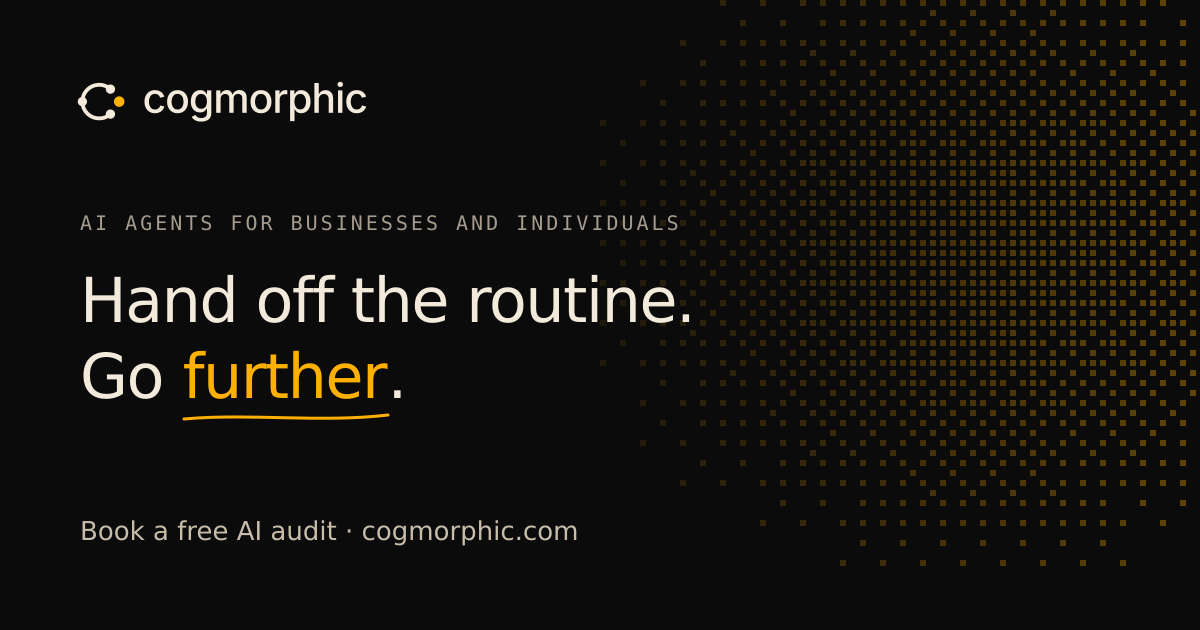
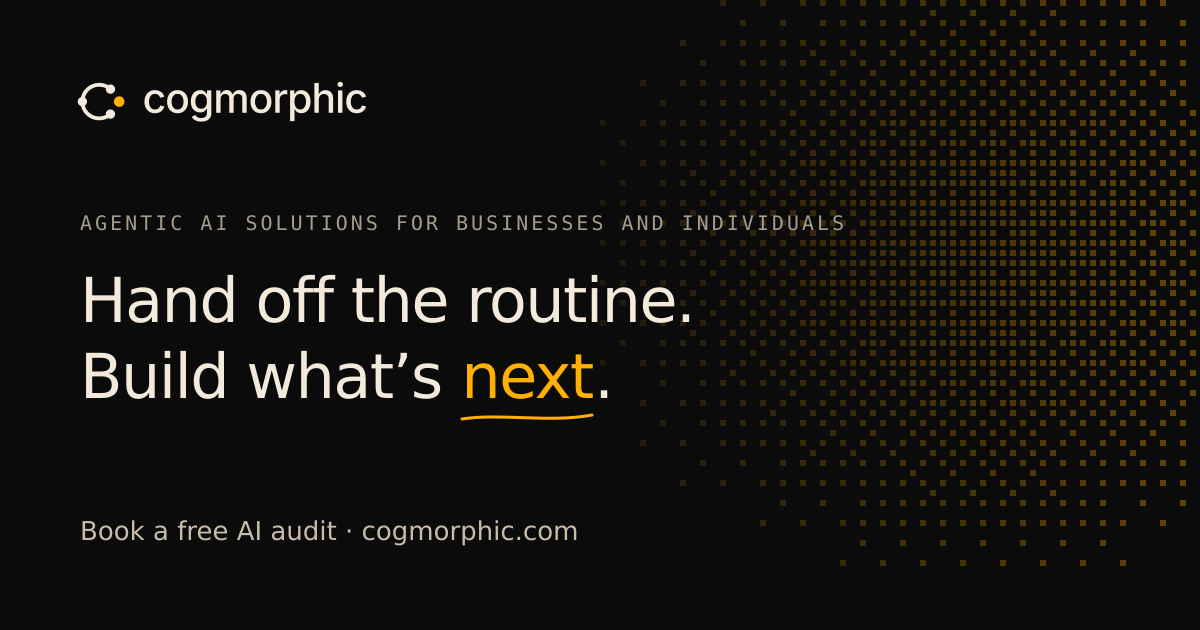
Sharpen the home page pitch
New eyebrow, headline second line and problem statement, a lede that
names budget and growth, and a matching link preview image.

Changed region(s): [[0.0617, 0.5429, 0.4933, 0.6937], [0.0617, 0.3317, 0.7092, 0.3619]]

diff --git a/src/styles/global.css b/src/styles/global.css
@@ -353,3 +353,5 @@ p { margin: 0; }
   .js .dial.is-set .dial__needle { transform: rotate(30deg); }
 }
 @media (forced-colors: active) { .dial__track, .dial__set, .dial__mark, .dial__needle { stroke: CanvasText; } .dial__needle circle { fill: CanvasText; } }
+
+.statement .line{display:block}
